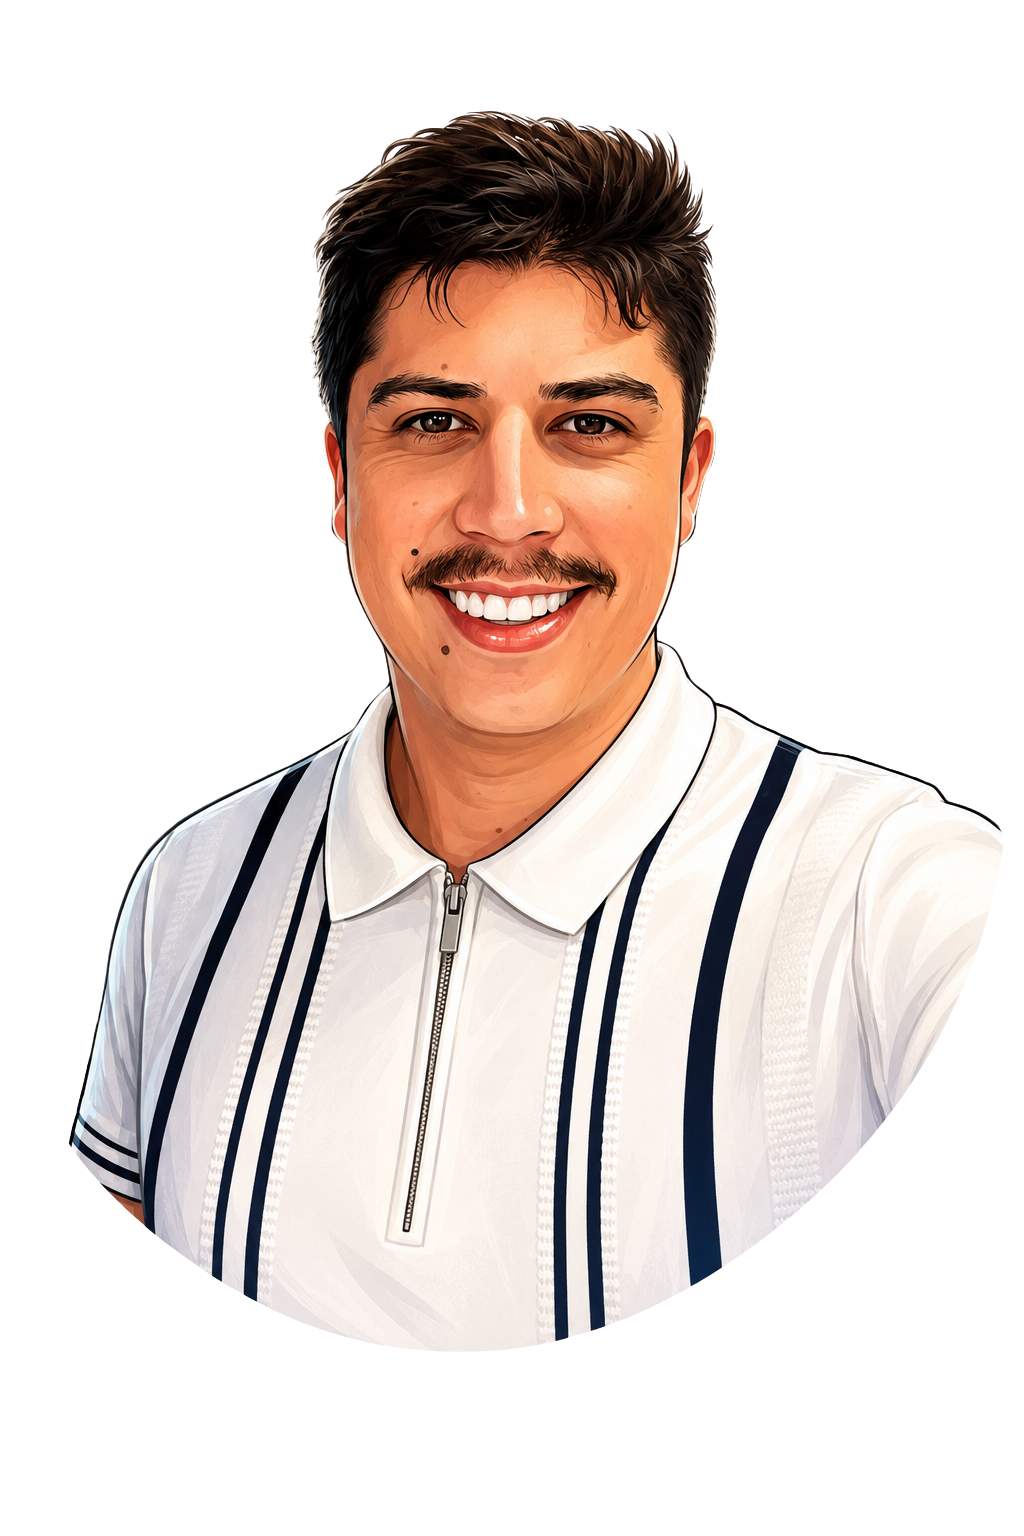
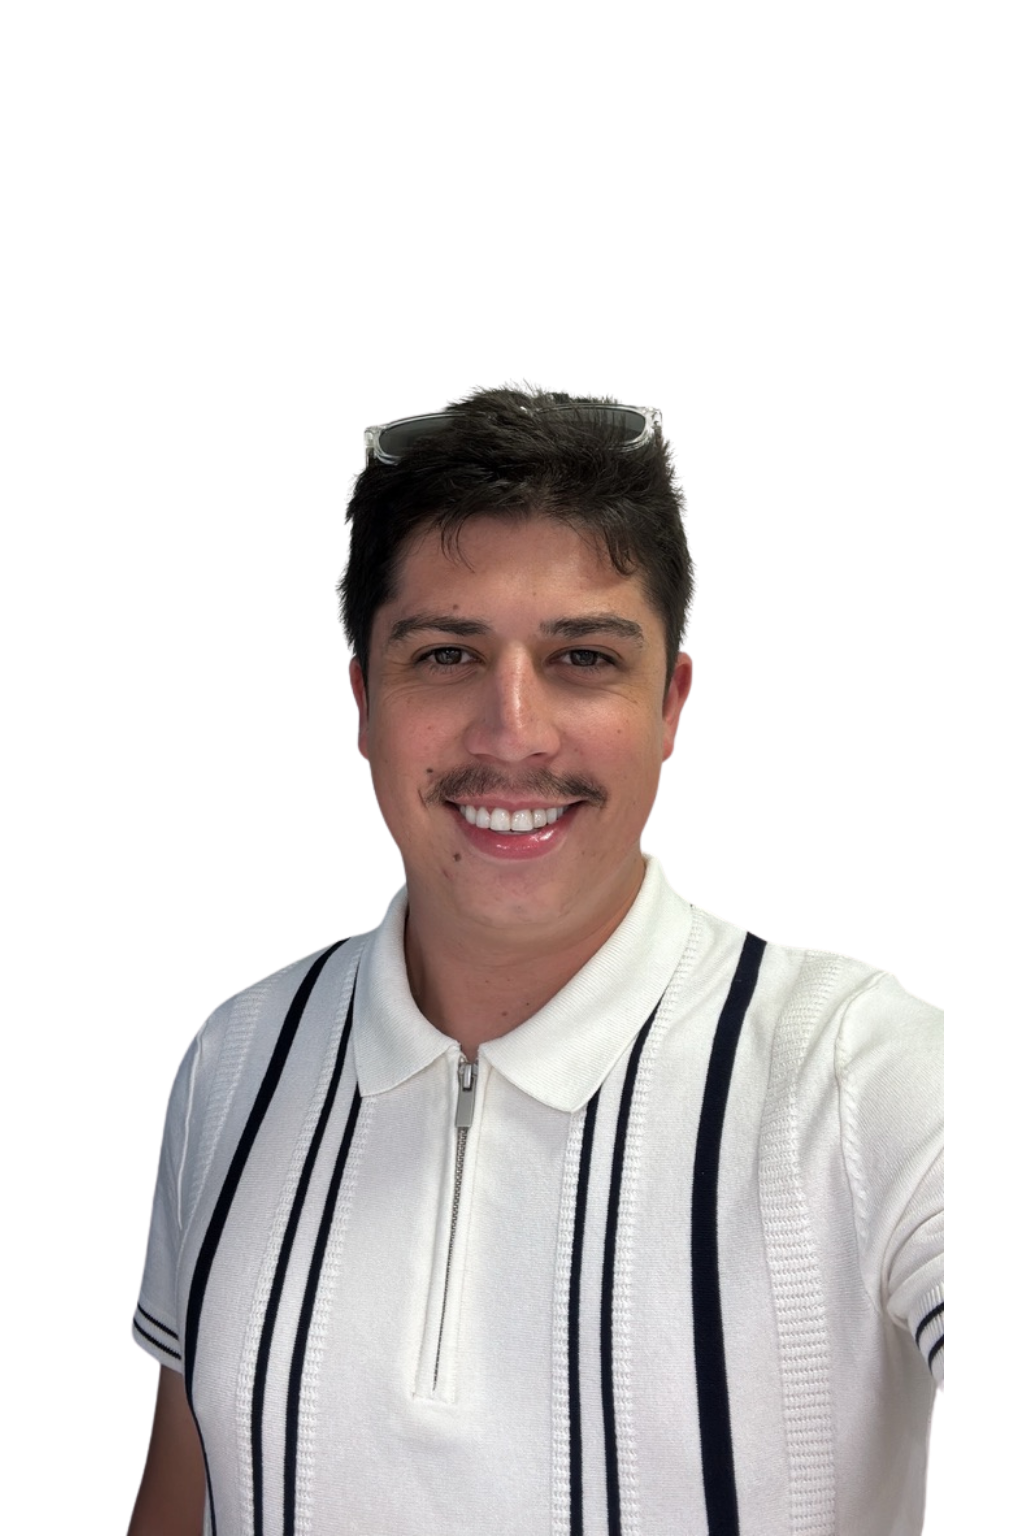
Atualizações gerais

diff --git a/index.html b/index.html
@@ -110,7 +110,7 @@
   .ws-lbl{display:block;font-size:.6rem;color:var(--text-2);margin-top:1px}
   .photo-glow{position:absolute;bottom:-30px;left:50%;transform:translateX(-50%);width:220px;height:50px;background:radial-gradient(ellipse,var(--green-dim),transparent 70%);filter:blur(16px);pointer-events:none}
   .hero-chip{position:absolute;z-index:10;background:var(--bg-2);border:1px solid var(--border);box-shadow:var(--shadow-md);border-radius:var(--radius-sm);padding:10px 14px;display:flex;align-items:center;gap:10px;font-size:.75rem;font-weight:600;animation:chipFloat 4s ease-in-out infinite;color:var(--text)}
-  .chip-1{top:40px;left:-70px;animation-delay:0s}.chip-2{bottom:100px;left:-80px;animation-delay:1.5s}.chip-3{top:120px;right:-70px;animation-delay:3s}.chip-4{bottom:50px;right:-60px;animation-delay:1s}
+  .chip-1{top:30px;left:-75px;animation-delay:0s}.chip-2{bottom:80px;left:-75px;animation-delay:1.5s}.chip-3{top:60px;right:-75px;animation-delay:3s}.chip-4{bottom:120px;right:-75px;animation-delay:1s}
   @keyframes chipFloat{0%,100%{transform:translateY(0)}50%{transform:translateY(-6px)}}
   .chip-icon{width:28px;height:28px;border-radius:6px;display:flex;align-items:center;justify-content:center;font-size:.875rem}
   .chip-icon.g{background:var(--green-dim);color:var(--green)}.chip-icon.v{background:var(--violet-dim);color:var(--violet)}.chip-icon.b{background:var(--blue-dim);color:var(--blue)}
@@ -305,8 +305,7 @@
           <div class="photo-inner">
             <div class="ws-wrap">
               <div class="ws-logo-area">
-                <div class="ws-logo-ring"><img class="ws-logo-img" src="giovannecaricatura_transparente.png" alt="Sartor Digital" style="border-radius:50%;object-fit:cover"></div>
-                <div class="ws-brand">Sartor<span>Digital</span></div>
+                <div class="ws-logo-ring" style="width:120px;height:120px"><img class="ws-logo-img" src="giovannecaricatura_transparente.png" alt="Giovanne Sartor" style="width:112px;height:112px;border-radius:50%;object-fit:contain;object-position:center top;background:transparent"></div>
               </div>
               <div class="ws-terminal">
                 <div class="ws-term-bar">
@@ -323,7 +322,7 @@
                 </div>
               </div>
               <div class="ws-metrics">
-                <div class="ws-metric"><span class="ws-num">5★</span><span class="ws-lbl">reviews</span></div>
+                <div class="ws-metric"><span class="ws-num">3sem</span><span class="ws-lbl">sistemas</span></div>
                 <div class="ws-metric"><span class="ws-num">5d</span><span class="ws-lbl">entrega</span></div>
                 <div class="ws-metric"><span class="ws-num">90d</span><span class="ws-lbl">garantia</span></div>
               </div>
@@ -380,7 +379,7 @@
       </div>
       <div class="about-photo-col fade-in">
         <div class="about-photo-frame g-card" style="padding:32px 24px;display:flex;flex-direction:column;align-items:center;gap:20px;min-height:320px;justify-content:center">
-          <div class="ws-logo-ring" style="width:88px;height:88px"><img class="ws-logo-img" style="width:88px;height:88px;border-radius:50%;object-fit:cover;object-position:center top" src="giovannecaricatura_transparente.png" alt="Giovanne Sartor"></div>
+          <div class="ws-logo-ring" style="width:120px;height:120px"><img class="ws-logo-img" src="giovannecaricatura_transparente.png" alt="Giovanne Sartor" style="width:112px;height:112px;border-radius:50%;object-fit:contain;object-position:center top;background:transparent"></div>
           <div style="text-align:center">
             <div style="font-family:var(--font-head);font-weight:700;font-size:1.1rem;color:var(--text);letter-spacing:-.02em">Sartor<span style="color:var(--green)">Digital</span></div>
             <div style="font-size:.8rem;color:var(--text-2);margin-top:4px;font-family:var(--font-mono)">Dev Full Stack · IA Specialist</div>